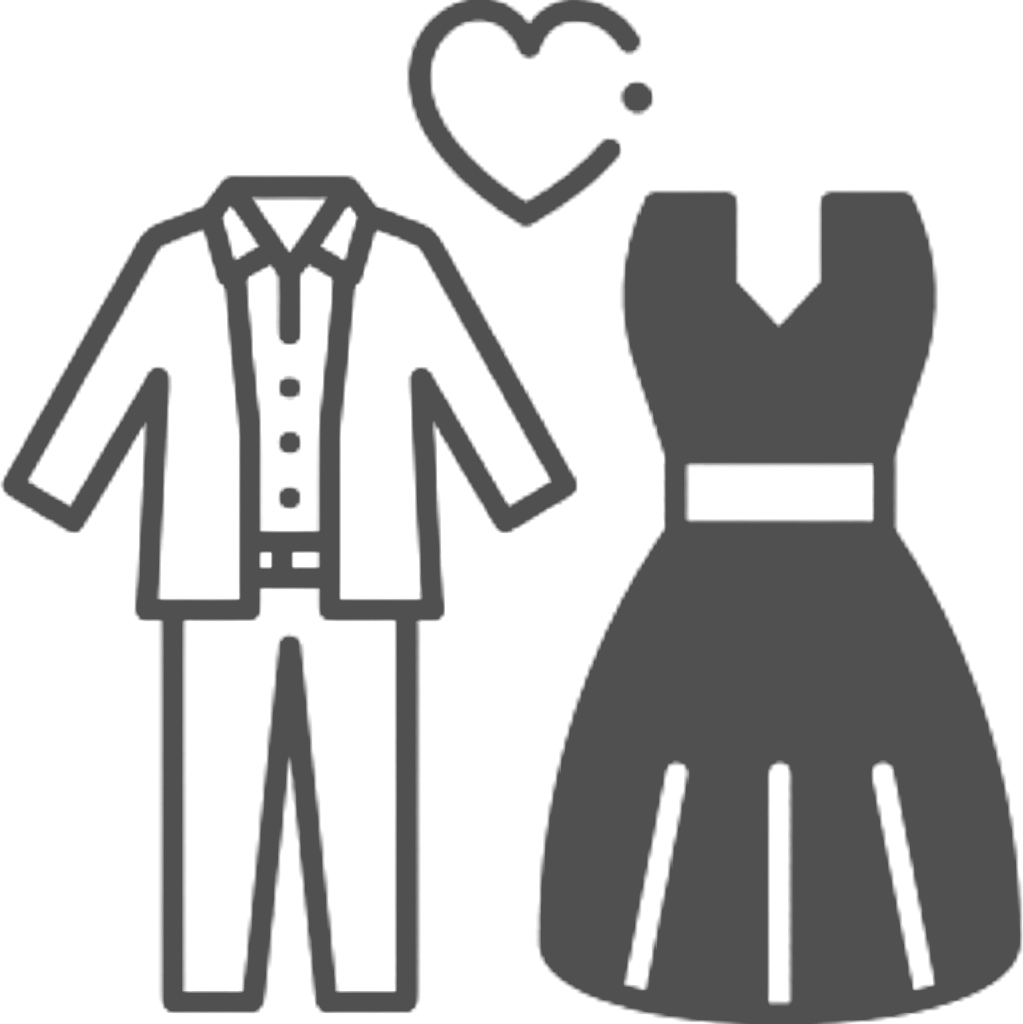
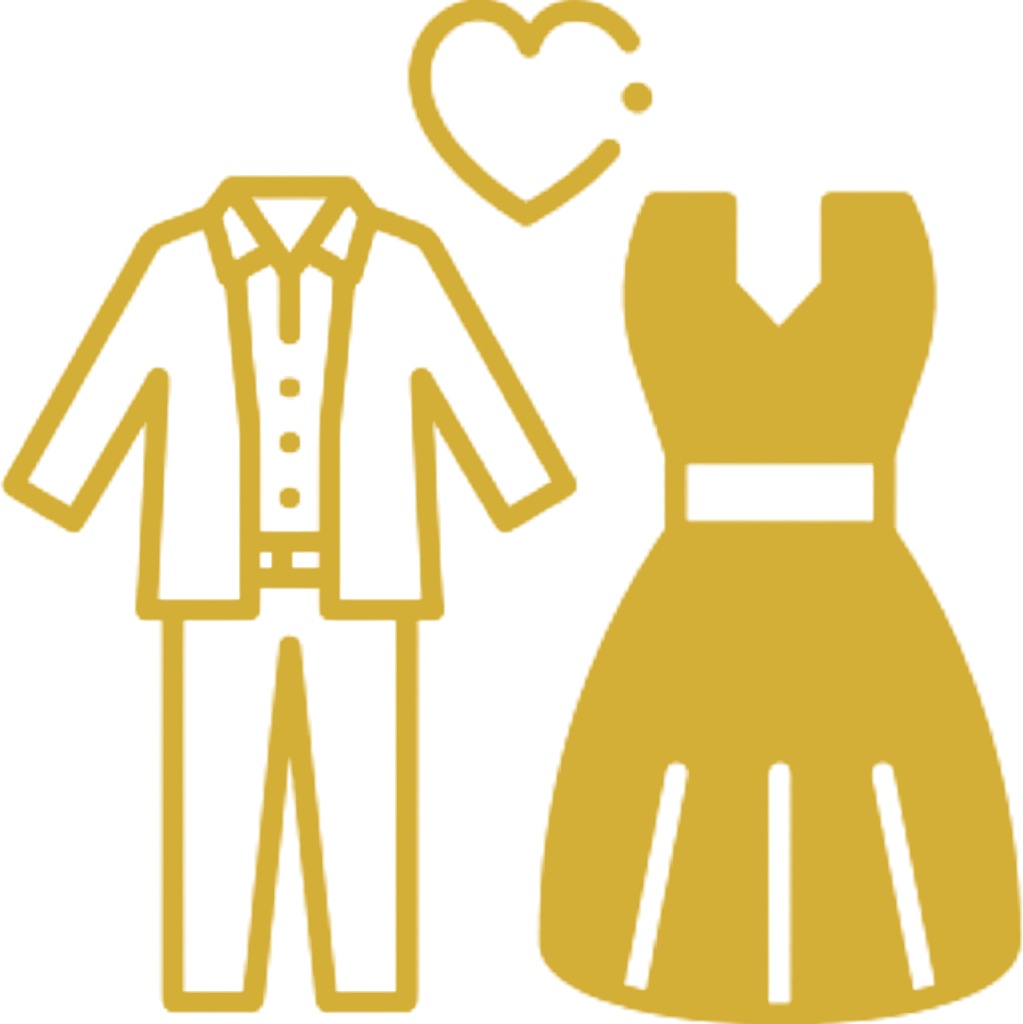
fix: colorea en dorado y ajusta el tamano del icono de dress code al resto de los iconos

diff --git a/index.html b/index.html
@@ -749,9 +749,7 @@
         <!-- Dress Code -->
         <div class="sage-card rounded-2xl p-6 text-center shadow-lg">
             <!-- Ilustración: corazón, traje y vestido -->
-            <div class="flex items-center justify-center">
-                <img src="dresscode-icon.png" alt="Traje y vestido" class="h-40 w-auto">
-            </div>
+            <img src="dresscode-icon.png" alt="Traje y vestido" class="w-7 h-7 mx-auto mb-2">
             <h3 class="text-3xl font-script-custom text-white">Dress Code</h3>
             <p class="text-xs font-semibold uppercase tracking-wider mt-1" style="color: var(--gold-deep);">Semiformal</p>
             <p class="text-[11px] text-white/85 mt-2 max-w-xs mx-auto leading-relaxed">
